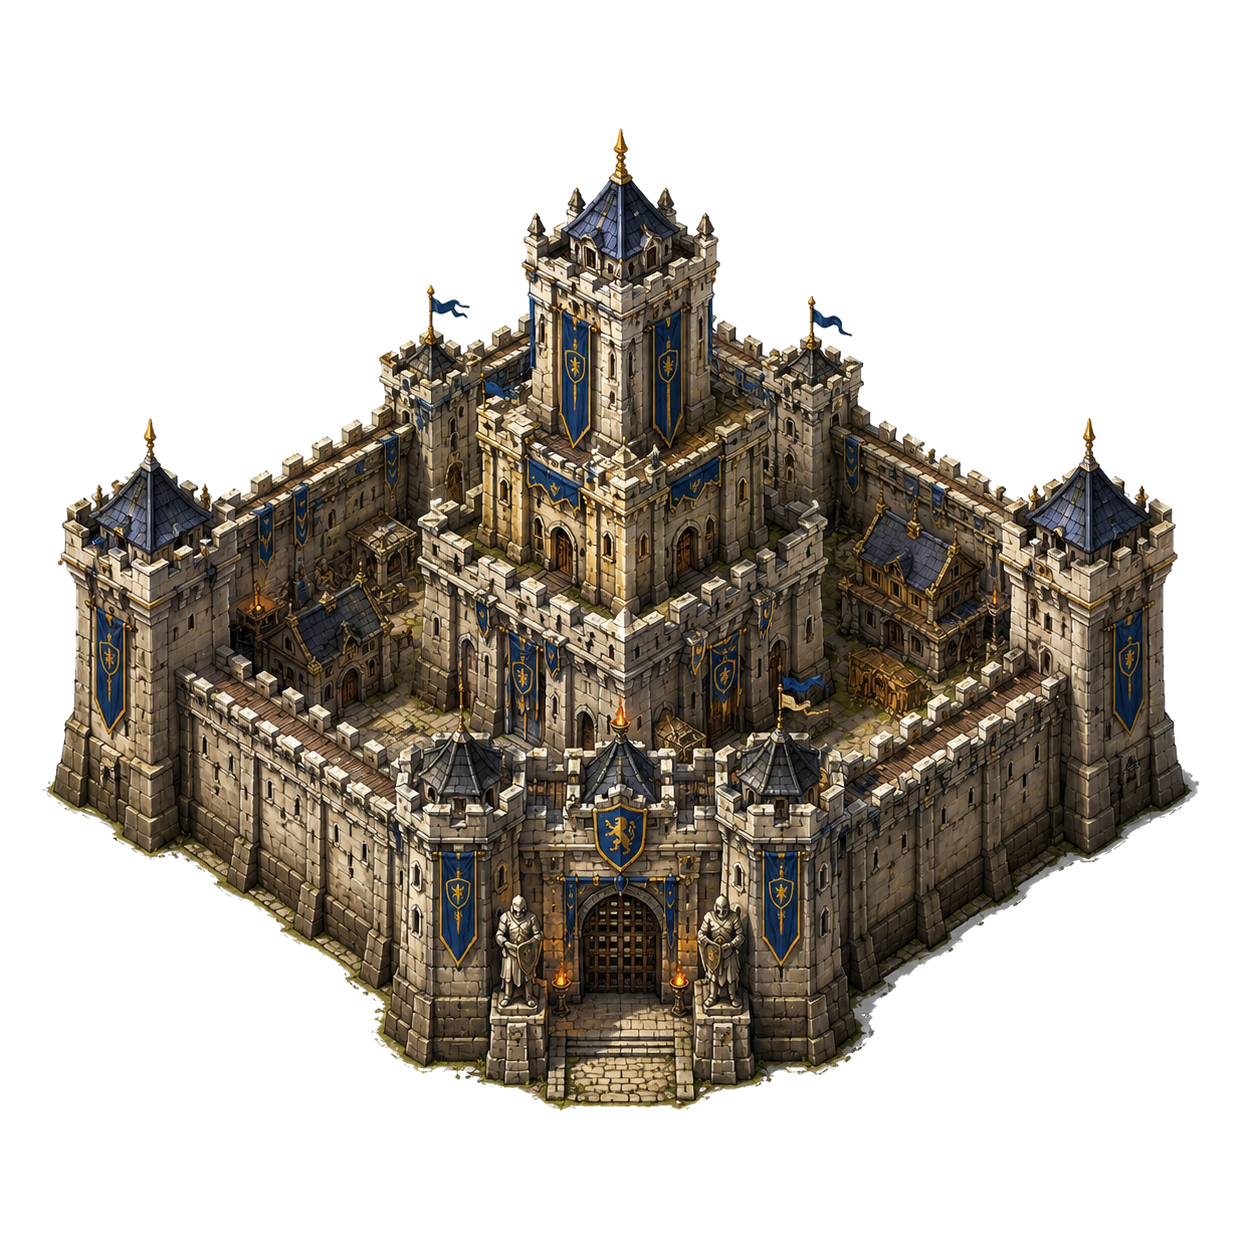
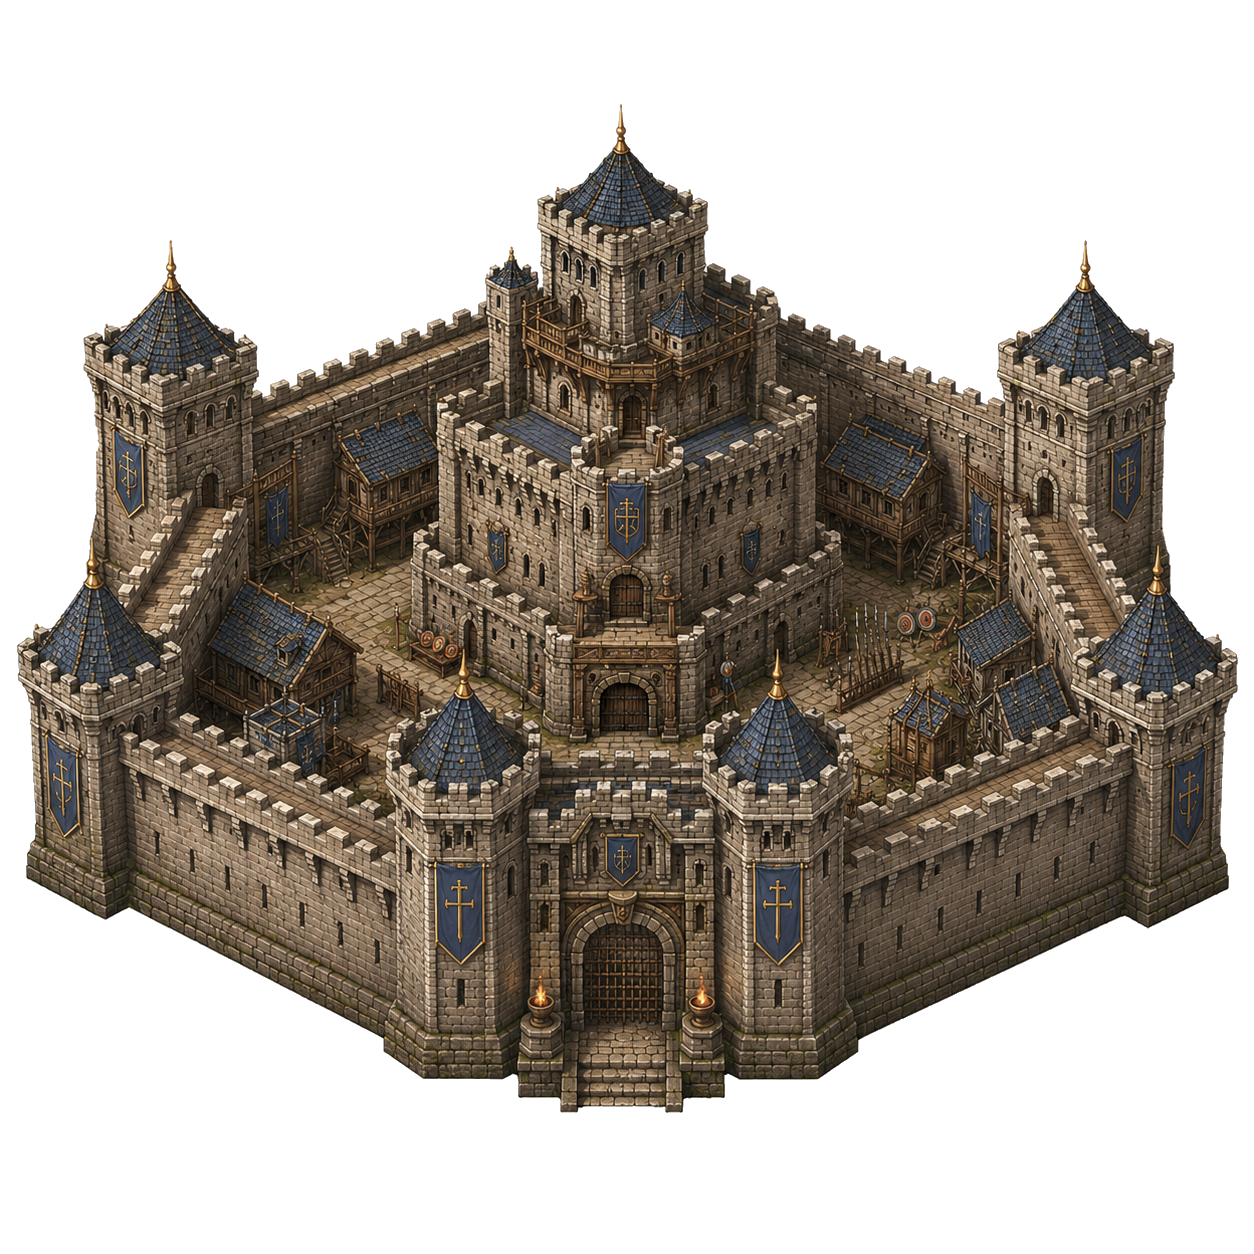
Update defense stronghold art

diff --git a/Crownlands-current-build/game.js b/Crownlands-current-build/game.js
@@ -232,7 +232,7 @@ const SPEED_STRONGHOLD_LEVEL = 50;
 const SPEED_STRONGHOLD_START_TROOPS = 50000000;
 const DEFENSE_STRONGHOLD_ID = "south_defense_stronghold";
 const DEFENSE_STRONGHOLD_NAME = "Defense Stronghold";
-const DEFENSE_STRONGHOLD_ART_SRC = "assets/defense-stronghold.png?v=20260703-defense-stronghold-art";
+const DEFENSE_STRONGHOLD_ART_SRC = "assets/defense-stronghold.png?v=20260704-defense-stronghold-update";
 const DEFENSE_STRONGHOLD_BONUS_PERCENT = 15;
 const DEFENSE_STRONGHOLD_LEVEL = 50;
 const DEFENSE_STRONGHOLD_START_TROOPS = 50000000;

diff --git a/game.js b/game.js
@@ -232,7 +232,7 @@ const SPEED_STRONGHOLD_LEVEL = 50;
 const SPEED_STRONGHOLD_START_TROOPS = 50000000;
 const DEFENSE_STRONGHOLD_ID = "south_defense_stronghold";
 const DEFENSE_STRONGHOLD_NAME = "Defense Stronghold";
-const DEFENSE_STRONGHOLD_ART_SRC = "assets/defense-stronghold.png?v=20260703-defense-stronghold-art";
+const DEFENSE_STRONGHOLD_ART_SRC = "assets/defense-stronghold.png?v=20260704-defense-stronghold-update";
 const DEFENSE_STRONGHOLD_BONUS_PERCENT = 15;
 const DEFENSE_STRONGHOLD_LEVEL = 50;
 const DEFENSE_STRONGHOLD_START_TROOPS = 50000000;
